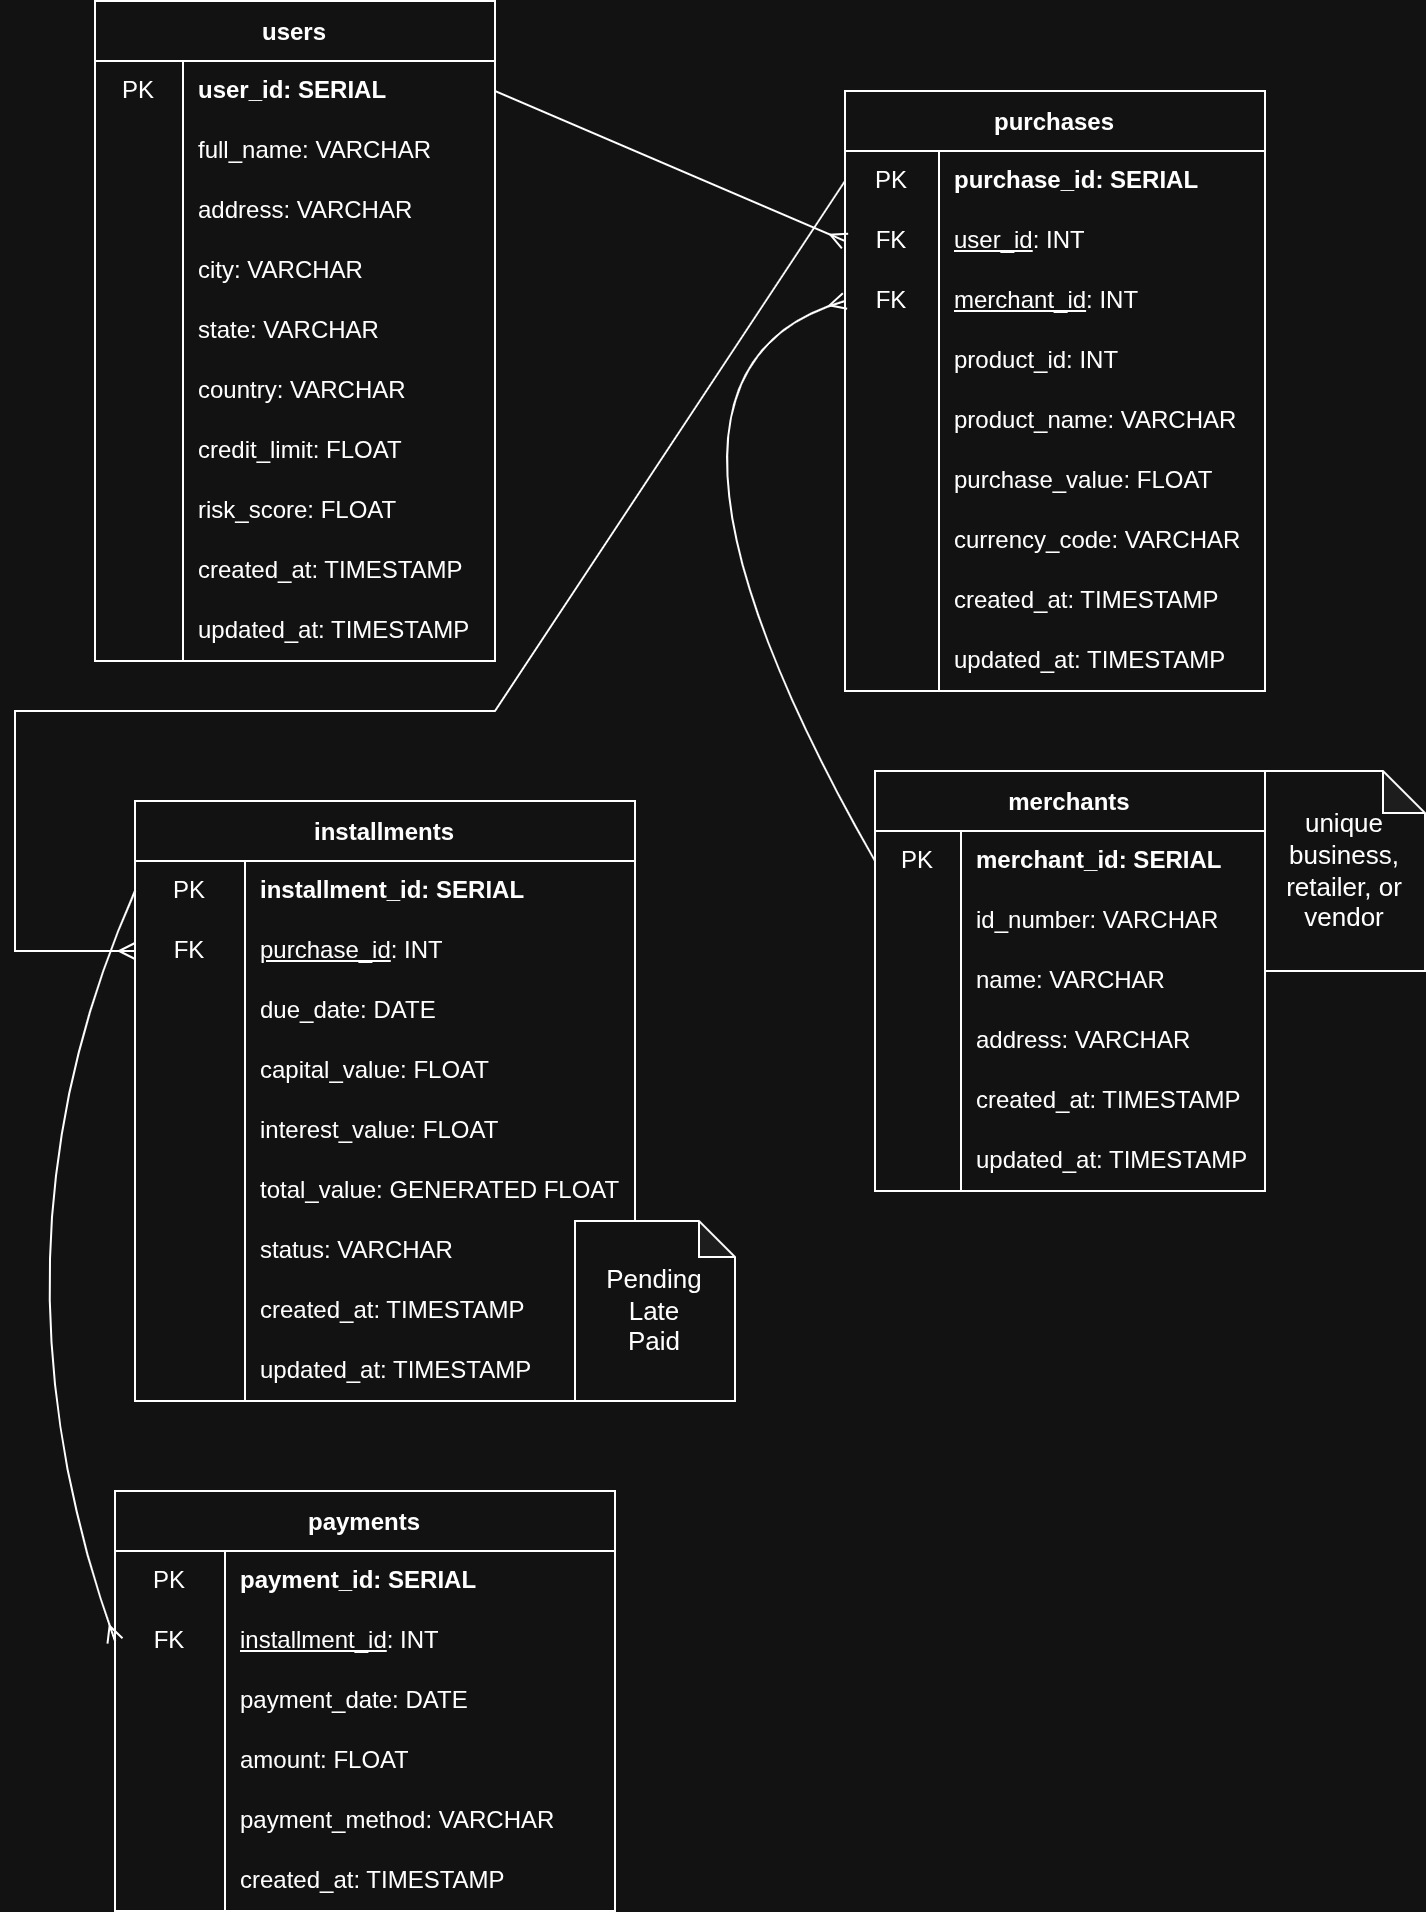
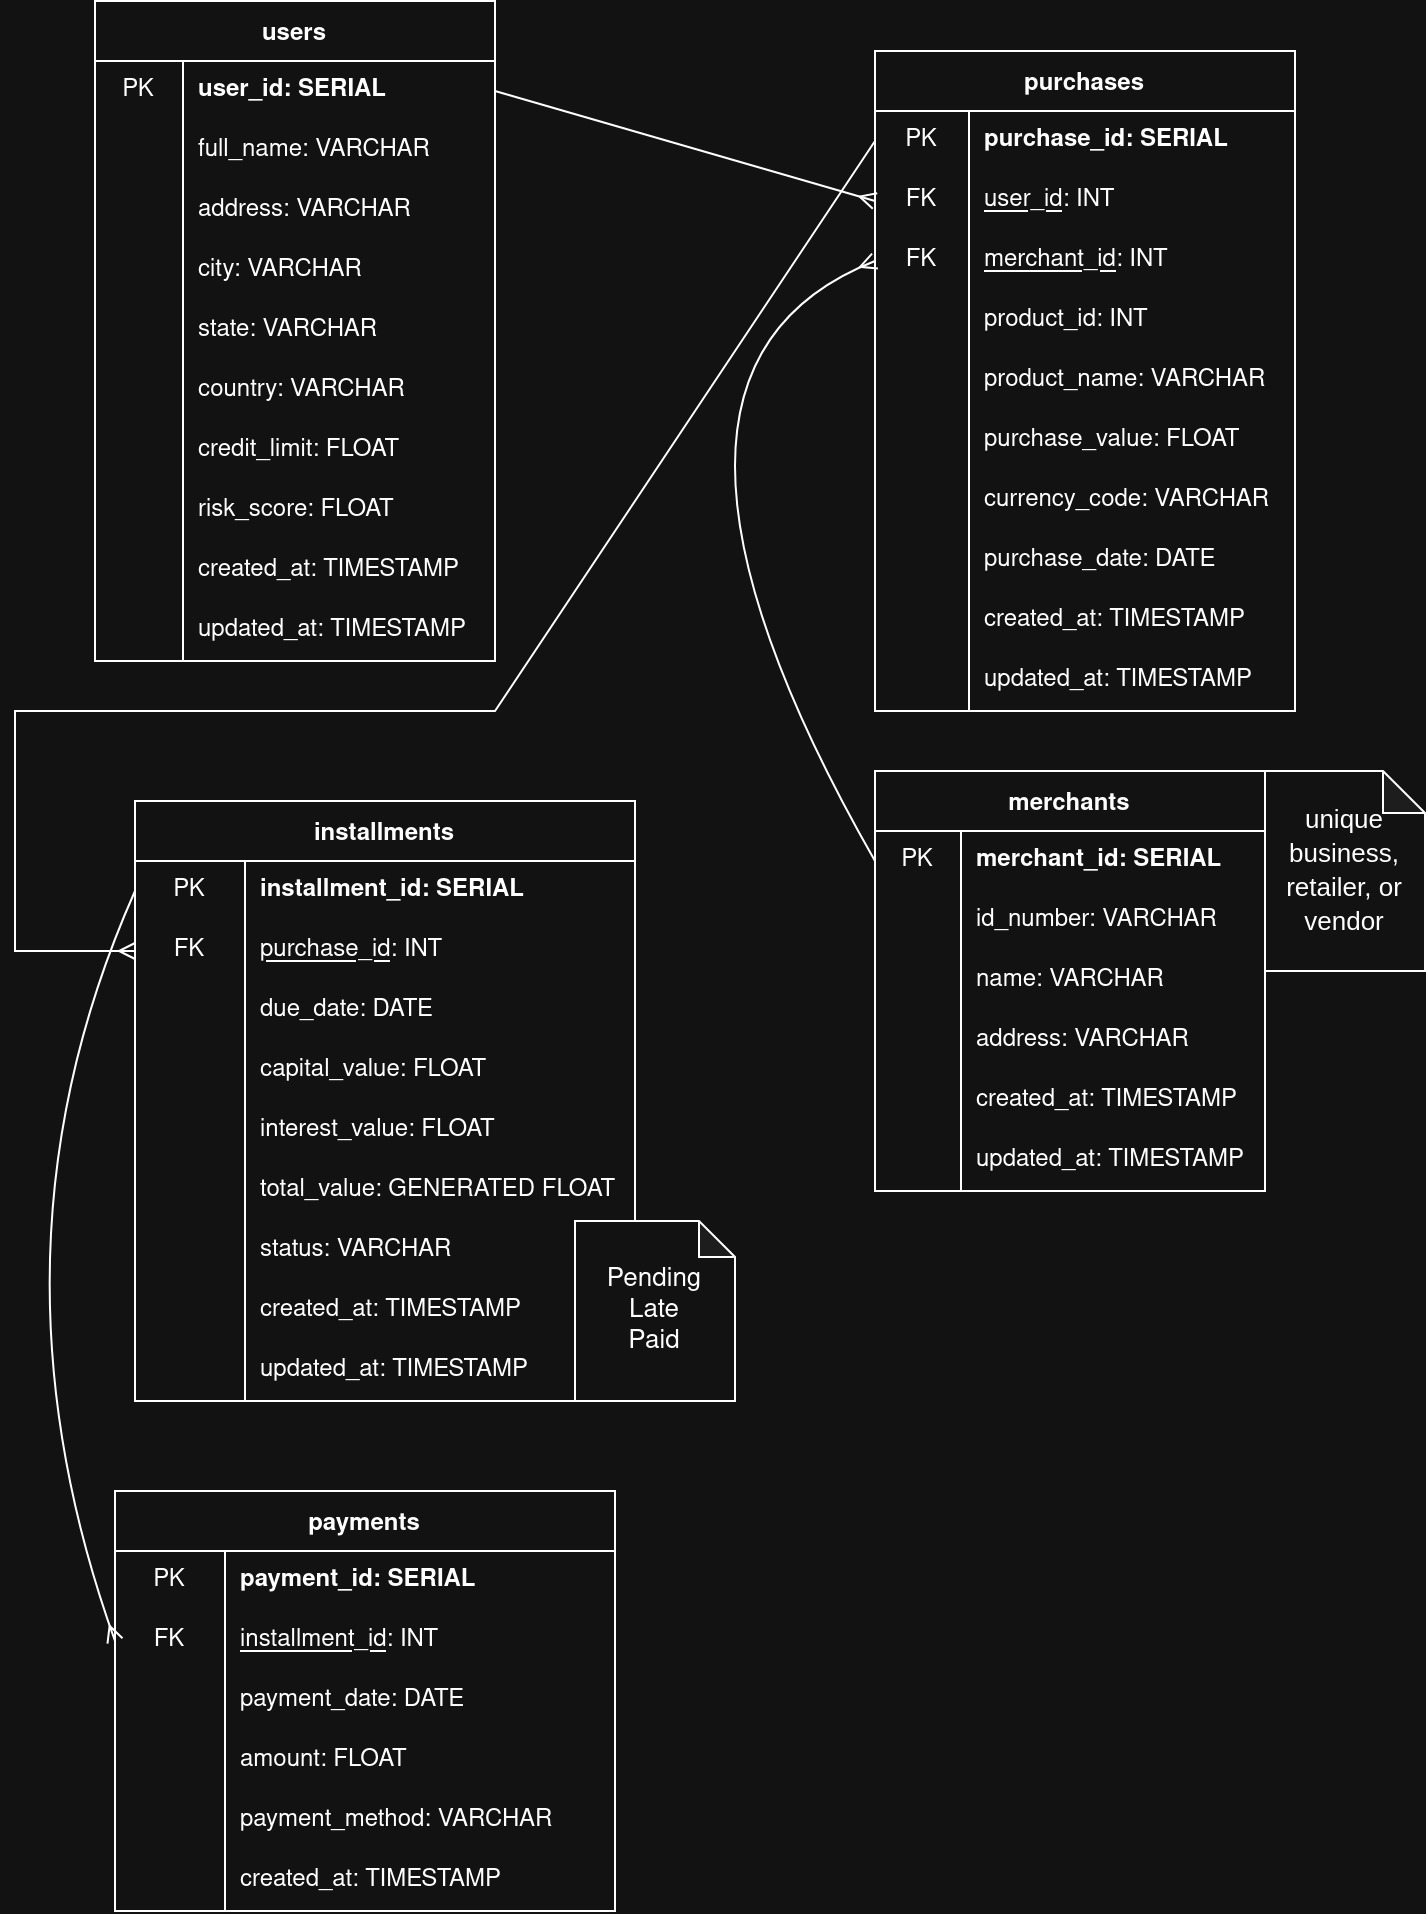
fix: add missing fields to generated data and draft of Business Rules

diff --git a/airflow/dags/data_gen.py b/airflow/dags/data_gen.py
@@ -150,7 +150,8 @@ class PurchaseGen(DataGen):
                 "product_id": self.fake.numerify("@@-#####"),
                 "product_name": self.fake.bs().title(),
                 "purchase_value": round(random.uniform(10.0, 50000.0), 2),
-                "purchase_date": self.fake.date_this_year().strftime("%Y-%m-%d"),
+                "currency_code": random.choice(("USD", None)),
+                "purchase_date": self.fake.date_this_year(),
                 "created_at": now,
                 "updated_at": now
             })

diff --git a/BRules.md b/BRules.md
@@ -1,0 +1,31 @@
+# Business Rules --WIP--
+
+## Bronze Layer
+
+This layer will contain an exact copy of raw incoming data in order to preserve its original structure and value, so it serves as a reference single source of truth for auditing
+
+## Silver Layer
+
+Input data is assumed to come dirty, as it doesn't comply with several minumin quality rules such as:
+
+- User and Product names have to be in uppercase
+- User and Merchant addresses may come with trailing spaces that must be removed
+- Purchases with a value equal or greater than 20000 should be discarded in the Silver layer and on
+- ...
+
+The Silver Layer will store transformations that standardize and enrich data
+
+Furthermore, a view will be built in this layer to quickly retrieve what purchases where made by which user
+
+## Gold Layer
+
+Corresponds to a Data Warehouse modelled as a Star Schema, which is comprised of Silver Layer's data
+
+It will help answer aggregate queries regarding the following measures:
+
+- payments
+- installments
+- credits
+- purchases
+- risk scores
+- ...